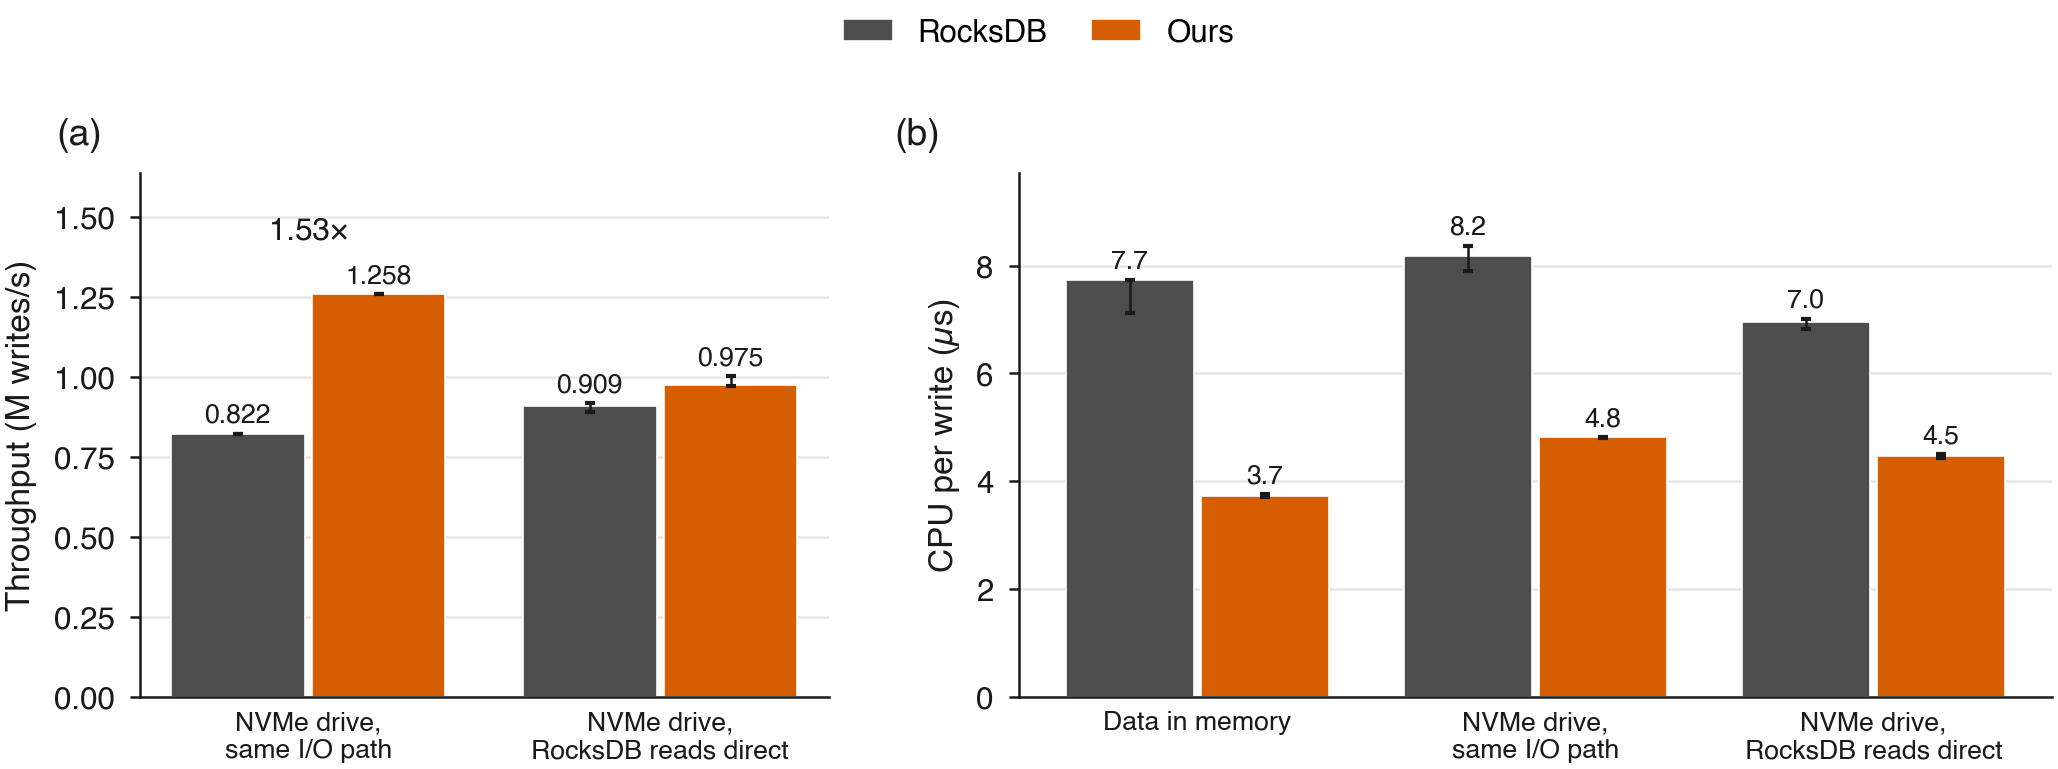
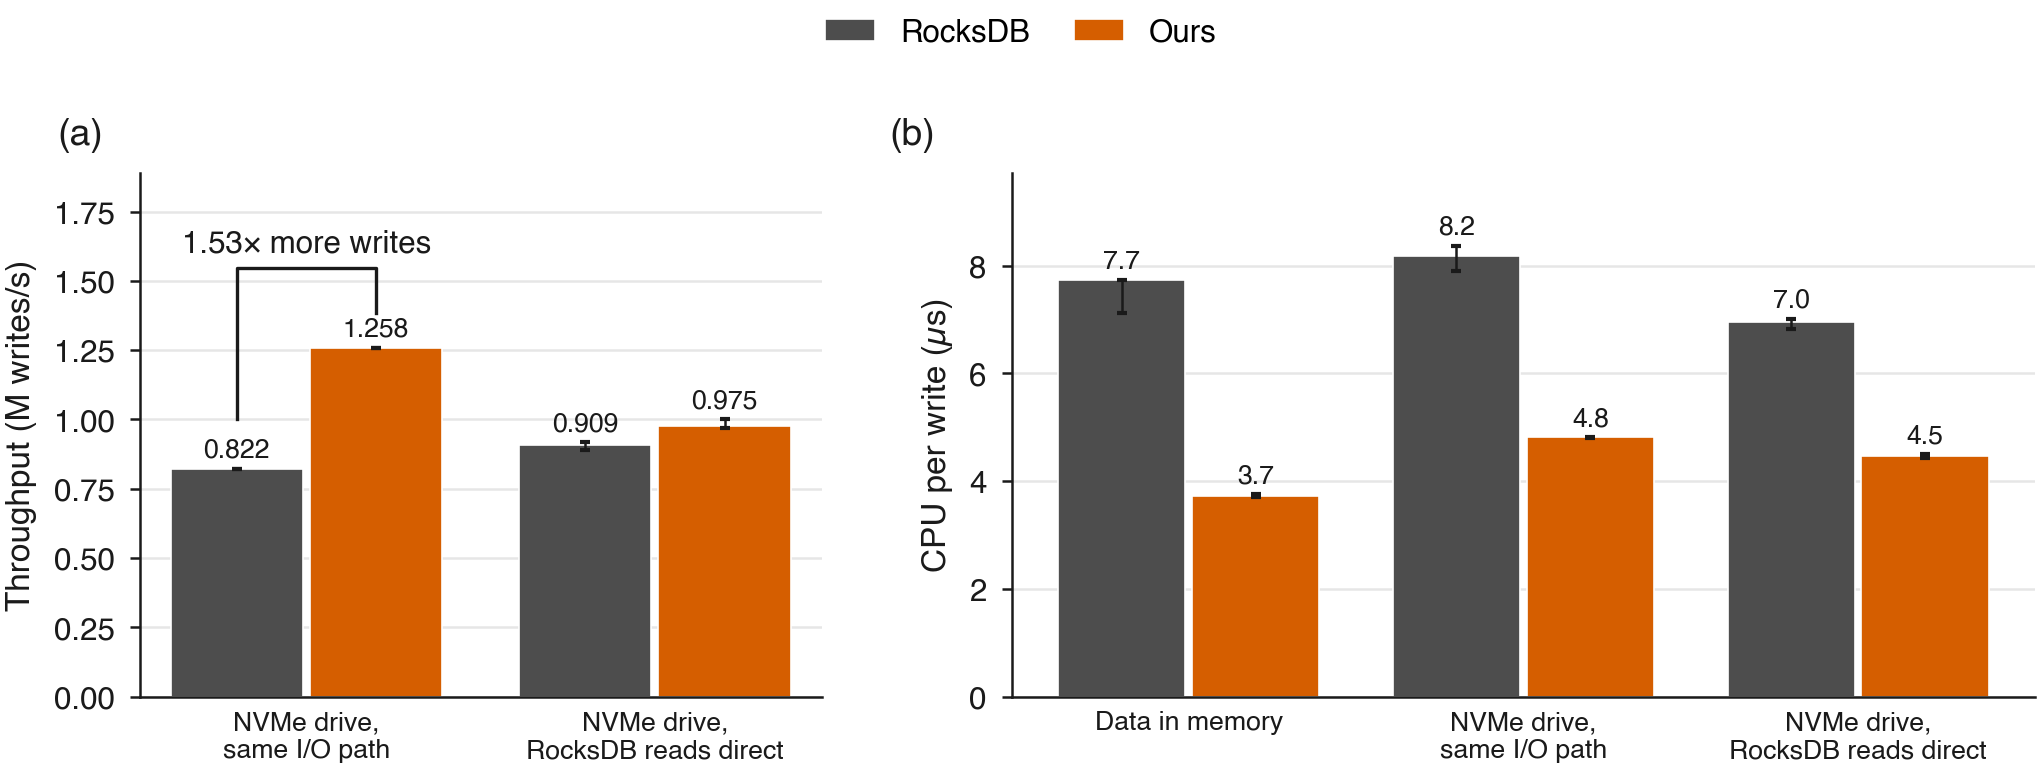
fig25_nvme: add bracket callout for 1.53x NVMe write gain

diff --git a/publication/make_figures_v3.py b/publication/make_figures_v3.py
@@ -369,10 +369,13 @@ def figure_nvme():
         finish_axis(ax, ylabel)
         panel_label(ax, letter)
         if metric == "ops":
-            ratio = REPORTED_NVME_OPS["full"] / REPORTED_NVME_OPS["native"]
-            ax.text(0, top * 1.12, f"{ratio:.2f}×", ha="center", va="bottom", fontsize=7.5,
-                    fontweight="bold", color=INK)
-            ax.set_ylim(0, top * 1.3)
+            native, full = REPORTED_NVME_OPS["native"], REPORTED_NVME_OPS["full"]
+            bracket_y = full * 1.23
+            ax.plot([-0.2, -0.2, 0.2, 0.2], [native * 1.22, bracket_y, bracket_y, full * 1.1],
+                    color=INK, linewidth=0.8)
+            ax.text(0, bracket_y * 1.02, f"{full / native:.2f}× more writes", ha="center", va="bottom",
+                    fontsize=7.5, fontweight="bold", color=INK)
+            ax.set_ylim(0, bracket_y * 1.22)
     fig.tight_layout(w_pad=2.5, rect=(0, 0, 1, 0.9))
     design_legend(fig, (NATIVE, FULL), y=0.9, labels=LABELS)
     save(fig, "fig25_nvme")
